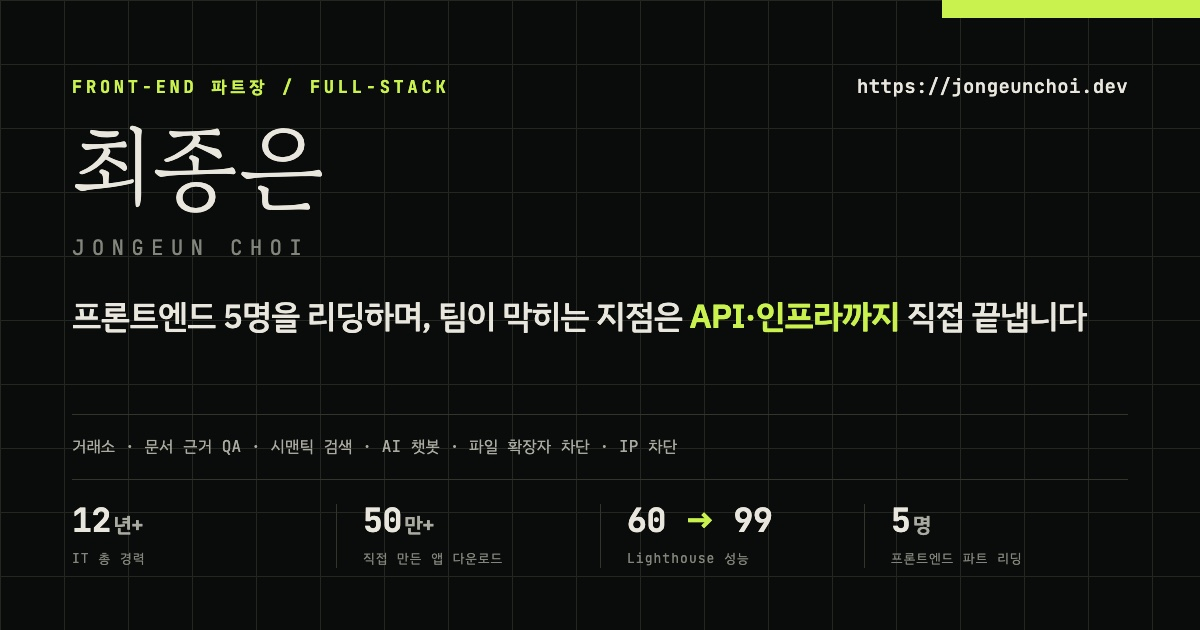
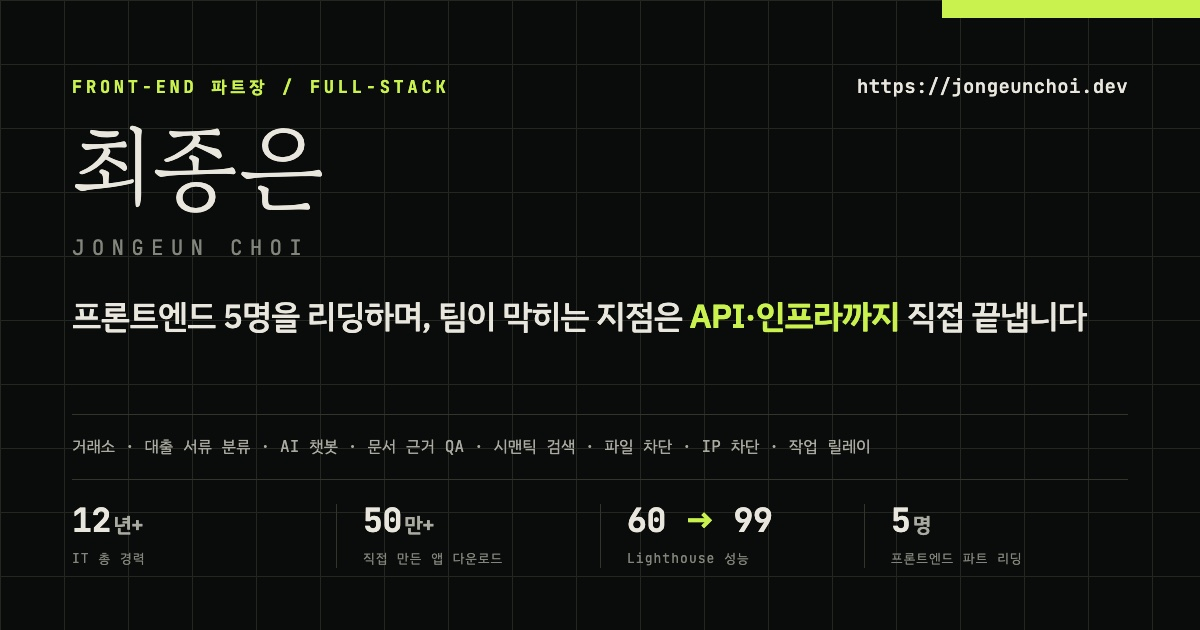
인덱스가 여덟 데모를 새 순서로 말하게 했다
대출 분류(07)와 작업 릴레이(08) 편입, 챗의 키 게이트 LLM 이 한꺼번에
쌓여 인덱스가 코드보다 뒤처져 있었다. 카드·문구·공유 카드를 한 번에
현행화한다.

## 카드 여덟 장, 순서의 의도

01 거래소 / 02 대출 분류 / 03 챗 / 04 문서QA / 05 시맨틱 검색 /
06 파일 차단 / 07 IP / 08 릴레이. 챗을 05 에서 03 으로 올렸다 -
AI 블록(02~05) 안에서 실 LLM 연동이 실재하는 카드(대출 분류의 폴백,
챗의 키 게이트)가 측정·목업 카드보다 먼저 읽히게. 문서QA-시맨틱 검색
쌍은 같은 앱의 두 표면이라 인접을 유지한다. 챗 카드는 스택 태그와
리드 문장에 키 게이트를 반영했다 - "목업" 제목과 실 LLM 이 한 카드에
있으면 모순으로 읽히므로 경계(키가 있을 때만)를 문장이 직접 말한다.

## 릴레이 카드와 링크 조립

08 카드의 판단 포인트는 재시도 자체가 아니라 부작용(중복 실행, 유령
이벤트)을 막은 방식이다. 링크는 DEMO_PORTS 에 guard. 서브도메인의
경로로 넣었다 - guard 앱 resolveScreenHref 와 같은 규칙이고, 새
서브도메인 없이 기존 인증서·nginx 로 동작한다(인프라 변경 0). 썸네일은
실행 중 화면 캡처다(격리 2건과 백오프 산식 타임라인이 보이는 컷).

## 개수 문구 전수 갱신

"일곱/여섯"이 남으면 페이지가 자기 말을 반박한다. 인트로 11곳(OG alt,
head 포트표 재작성, hero, 섹션 리드, 선택된 작업 08, 각 주석들)과
루트 README 7곳(표 수치는 실측 - guard 189/6종 24/33, chat 149,
docqa 55)을 갱신했다. 분류 문구는 재계산해 "서버측 일곱(fs 3 + be 4),
클라 전용 하나"다. 낡은 이중 주석(라이브 두 개 시절) 하나는 지웠다.

## OG 재생성

데모 스트립을 새 순서 8개로 다시 그렸다. 한 줄 수용을 위해 목록에서만
"파일 차단"으로 줄였다(카드 제목은 그대로) - 잘림과 줄바꿈이 없는 것을
눈으로 확인했다.

## 하지 않은 것

- 릴레이 전용 서브도메인 - 새 이름 0 원칙. guard. 경로로 충분하다.
- 품질 지표를 아홉 번째 카드로 승격 - "선택된 작업 08"과 개수 문구를
  모두 흔든다. 목록 밖 한 줄을 유지한다.

검증: 실브라우저 데스크톱·모바일(375px) 8카드 렌더와 가로 오버플로 0,
콘솔 오류 0. 모바일 우측 잘림처럼 보인 것은 대형 창 헤드리스 캡처의
아티팩트로, 배포본(HEAD) 렌더와 교차 확인했다.

Changed region(s): [[0.1233, 0.6937, 0.74, 0.7238]]

diff --git a/intro/index.html b/intro/index.html
@@ -23,7 +23,7 @@
 <meta property="og:image:width" content="1200">
 <meta property="og:image:height" content="630">
 <meta property="og:image:type" content="image/jpeg">
-<meta property="og:image:alt" content="최종은 포트폴리오 - 라이브 데모 여섯 개와 12년+ 경력 요약">
+<meta property="og:image:alt" content="최종은 포트폴리오 - 라이브 데모 여덟 개와 12년+ 경력 요약">
 <meta name="twitter:card" content="summary_large_image">
 <meta name="twitter:title" content="최종은 (JONGEUN CHOI) - 풀스택 개발자 포트폴리오">
 <meta name="twitter:description" content="검증 조율 구현을 모두 거친 개발 리더. IT 경력 12년+.">
@@ -37,14 +37,16 @@
   최종은 포트폴리오 인트로(랜딩) - 자체완결 정적 HTML. 빌드 도구 없이 그대로 서빙한다.
   외부 의존은 Google Fonts(CDN) 하나. 카운트업/등장 애니메이션은 바닐라 JS.
 
-  하단 Demos 섹션의 여섯 카드는 한 서버에 함께 배포된다. 도메인 없이 IP 로만 접속하는 구성이라
+  하단 Demos 섹션의 여덟 카드는 한 서버에 함께 배포된다. 도메인 없이 IP 로만 접속하는 구성이라
   서브도메인을 쓸 수 없고(SNI 없음), 앱들이 모두 /api/* 를 써 경로로도 못 나눠서 **포트로** 나눈다:
-    01 FRONTEND  거래소 목업        portfolio_exchange_next  :9445 /exchange/BTC
-    02 FRONTEND  AI 챗봇 목업        portfolio_react_next     :9443 /
-    03 FRONTEND  문서 근거 QA        portfolio_react_next     :9444 /
-    04 FRONTEND  시맨틱 검색         portfolio_react_next     :9444 /search
-    05 BACKEND   파일 확장자 차단     portfolio_jquery_spring  :8443 /
-    06 BACKEND   IP 차단             portfolio_jquery_spring  :8443 /ip.html
+    01 FRONTEND    거래소 목업        portfolio_exchange_next  :9445 /exchange/BTC
+    02 BACKEND·AI  대출 서류 분류     portfolio_python_fastapi :9446 /
+    03 FULL-STACK  AI 챗봇 목업       portfolio_react_next     :9443 /
+    04 FULL-STACK  문서 근거 QA       portfolio_react_next     :9444 /
+    05 FULL-STACK  시맨틱 검색        portfolio_react_next     :9444 /search
+    06 BACKEND     파일 확장자 차단    portfolio_jquery_spring  :8443 /
+    07 BACKEND     IP 차단            portfolio_jquery_spring  :8443 /ip.html
+    08 BACKEND     작업 릴레이         portfolio_jquery_spring  :8443 /relay.html
   인트로 자신은 같은 서버의 443(루트)에 있다. 그래서 링크에 IP 를 적어 두지 않고 "지금 페이지의
   호스트 + 데모별 포트" 로 조립한다(아래 DEMO_PORTS) - 서버 IP 가 바뀌어도 고칠 곳이 없다.
   로컬에서는 각 카드의 data-demo-url(개발 포트)을 쓰고, 링크로 승격하지 않는다(죽은 링크 방지).
@@ -427,7 +429,7 @@
   .index-head { display: flex; justify-content: space-between; align-items: baseline; font-family: var(--mono); font-size: 0.7rem; letter-spacing: 0.24em; text-transform: uppercase; color: var(--paper-faint); border-bottom: 1px solid var(--line); padding-bottom: 0.9rem; margin-bottom: 0.2rem; }
   ol.works { list-style: none; }
   /* 카드 목록 밖의 한 줄(품질 지표 링크). 카드가 아니라 각주라 크기를 한 단 낮추고 테두리를
-     주지 않는다 - 일곱 번째 카드처럼 보이면 "선택된 작업 06"과 어긋난다. */
+     주지 않는다 - 아홉 번째 카드처럼 보이면 "선택된 작업 08"과 어긋난다. */
   .works-extra { margin-top: 1.6rem; max-width: 62ch; font-size: 0.92rem; line-height: 1.7; color: var(--paper-dim); }
   .works-extra b { color: var(--paper); font-weight: 600; }
   .wx-lab { font-family: var(--mono); font-size: 0.66rem; letter-spacing: 0.22em; text-transform: uppercase; color: var(--paper-faint); margin-right: 0.55rem; }
@@ -621,7 +623,7 @@
              앞 문장을 새로 얹은 이유: 검증 초대만으로는 README 를 열지 않는 독자에게 이 문단이
              아무것도 주지 않는다. "다시 열리게 만들어 왔습니다" 로 쓰면 짧지만 15명 조직의
              재런칭을 1인칭으로 흡수한다 - 맡은 범위(프론트엔드)를 적는다. -->
-        <p class="sub reveal">느렸던 화면을 빠르게 만들고, 멈췄던 서비스를 다시 여는 재런칭에 프론트엔드를 맡았습니다. 아래 여섯 데모는 실제로 돌아가고, 각 README 에 <b>하지 않은 선택까지</b> 남겼습니다.</p>
+        <p class="sub reveal">느렸던 화면을 빠르게 만들고, 멈췄던 서비스를 다시 여는 재런칭에 프론트엔드를 맡았습니다. 아래 여덟 데모는 실제로 돌아가고, 각 README 에 <b>하지 않은 선택까지</b> 남겼습니다.</p>
 
         <dl class="stats reveal" aria-label="핵심 지표">
           <div class="stat">
@@ -712,7 +714,7 @@
           </div>
           <div class="skillcard">
             <h3>Backend</h3>
-            <div class="chips"><span>Java</span><span>Spring Boot</span><span>Thymeleaf (SSR)</span><span>RESTful API</span><span>WebSocket (STOMP)</span><span>SSE</span><span>Apache Tika</span></div>
+            <div class="chips"><span>Java</span><span>Spring Boot</span><span>Python</span><span>FastAPI</span><span>Thymeleaf (SSR)</span><span>RESTful API</span><span>WebSocket (STOMP)</span><span>SSE</span><span>Apache Tika</span></div>
           </div>
           <div class="skillcard">
             <h3>Database</h3>
@@ -724,7 +726,7 @@
           </div>
           <div class="skillcard">
             <h3>기타</h3>
-            <div class="chips"><span>TradingView</span><span>Web3j</span><span>Vertex AI</span><span>Claude Code CLI</span></div>
+            <div class="chips"><span>TradingView</span><span>Web3j</span><span>Vertex AI</span><span>Claude API</span><span>Claude Code CLI</span></div>
           </div>
         </div>
       </section>
@@ -736,10 +738,10 @@
         <!-- "프론트엔드 네 개와 백엔드 두 개" 라고 적혀 있었는데 카드 라벨은 Frontend 1 /
              Full-stack 3 / Backend 2 다(라벨을 올릴 때 이 줄을 안 고쳤다). 한 화면 안에서
              페이지가 자기 말을 반박하던 자리다. 개수 대신 범위로 적는다: 서버측 관심사가 있는
-             카드가 다섯(fs 3 + be 2), 클라이언트 전용이 하나(거래소)다. -->
-        <p class="sub reveal" style="max-width:52ch;color:var(--paper-dim);margin-bottom:2.5rem">직접 설계하고 구현한 코드 데모입니다. 여섯 개 모두 라이브로 열려 있고, 화면만이 아니라 API · 저장 · 정책까지 직접 만든 것이 다섯 개입니다.</p>
+             카드가 일곱(fs 3 + be 4), 클라이언트 전용이 하나(거래소)다. -->
+        <p class="sub reveal" style="max-width:52ch;color:var(--paper-dim);margin-bottom:2.5rem">직접 설계하고 구현한 코드 데모입니다. 여덟 개 모두 라이브로 열려 있고, 화면만이 아니라 API · 저장 · 정책까지 직접 만든 것이 일곱 개입니다.</p>
 
-        <div class="index-head reveal"><span>선택된 작업</span><span>06</span></div>
+        <div class="index-head reveal"><span>선택된 작업</span><span>08</span></div>
         <ol class="works">
           <li>
             <!-- 카드는 마크업상 링크가 아니다. 데모들은 인트로와 같은 호스트의 다른 포트에 살아서,
@@ -750,7 +752,7 @@
               <div class="wbody">
                 <span class="cat">Frontend</span>
                 <h3 class="wtitle">거래소 목업</h3>
-                <!-- 여섯 장 중 이 카드만 이해관계 절을 앞에 붙이지 않았다. 첫 문장이 이미
+                <!-- 여덟 장 중 이 카드만 이해관계 절을 앞에 붙이지 않았다. 첫 문장이 이미
                      "실무에서 한 일을 다시 만들었다" 라 그 역할을 하고 있다. 길이만 줄인다. -->
                 <p class="wdesc">실무에서 호가창을 10단&#8594;20단으로 늘리고 차트를 옮겼던 작업을 공개 가능한 형태로 다시 만들었습니다. Mock 스트림이 시세·분봉·호가를 함께 갱신하고, 스탑 주문은 새 엔진이 아니라 체결 상태기계의 트리거 상태로 넣었습니다. 거래 화면과 입출금·보유자산까지 세 화면입니다.</p>
                 <div class="wstack"><span>Next.js 16</span><span>React 19</span><span>TypeScript</span><span>lightweight-charts</span><span>zustand</span><span>실시간 Mock</span></div>
@@ -761,8 +763,43 @@
           </li>
 
           <li>
-            <div class="work pending reveal" data-track="fs" data-demo="docqa-qa" data-demo-url="http://localhost:3030/" aria-label="문서 근거 QA">
+            <div class="work pending reveal" data-track="be" data-demo="loandoc" data-demo-url="http://localhost:8000/" aria-label="대출 서류 분류">
               <span class="idx">02</span>
+              <div class="wbody">
+                <span class="cat">Backend · AI</span>
+                <h3 class="wtitle">대출 서류 분류 파이프라인</h3>
+                <!-- AI 를 "폴백" 으로 쓴 이유가 이 카드의 본문이다 - 전 페이지 LLM 이 아니라
+                     룰 우선 + 저신뢰만 위임. 근거가 페이지 단위로 남는다는 것이 판단 포인트. -->
+                <p class="wdesc">수십 장짜리 대출 서류 뭉치는 순서 없이 스캔되어 들어옵니다. 페이지마다 유형을 판별하고 흩어진 문서를 다시 묶는 파이프라인입니다. 표준 양식의 고정 문구를 룰로 먼저 확정하고 룰이 못 정한 페이지만 AI 에 맡겨, 모든 판정에 페이지 단위 근거가 남습니다. 동봉된 합성 샘플로 한 클릭이면 결과가 보입니다.</p>
+                <div class="wstack"><span>Python 3</span><span>FastAPI</span><span>pypdf</span><span>룰 + LLM 폴백 하이브리드</span><span>속성 기반 테스트</span><span>결정적 산출물</span></div>
+              </div>
+              <img class="wthumb" src="img/demo-07-loandoc.jpg" srcset="img/demo-07-loandoc-400.jpg 400w, img/demo-07-loandoc-800.jpg 800w, img/demo-07-loandoc.jpg 1200w" sizes="(min-width: 1024px) 250px, (min-width: 641px) 420px, 80vw" alt="" width="1200" height="750" loading="lazy" decoding="async">
+              <div class="wstatus"><span class="soon">로컬</span></div>
+            </div>
+          </li>
+
+          <li>
+            <!-- 챗을 문서QA 쌍 앞에 둔다 - AI 블록(02~05) 안에서 실 LLM 연동이 실재하는
+                 카드(대출 분류의 폴백, 챗의 키 게이트)가 측정·목업 카드보다 먼저 읽히게. -->
+            <div class="work pending reveal" data-track="fs" data-demo="chat" data-demo-url="http://localhost:3000/" aria-label="AI 챗봇 목업">
+              <span class="idx">03</span>
+              <div class="wbody">
+                <span class="cat">Full-stack</span>
+                <h3 class="wtitle">AI 챗봇 목업</h3>
+                <!-- "목업" 이라는 제목과 "실제 LLM" 이 한 카드에 있으면 모순으로 읽힌다 -
+                     키 게이트(있으면 LLM, 없으면 결정적 목업)라는 사실 자체가 판단 포인트라
+                     리드 문장이 그 경계를 직접 말하게 한다. -->
+                <p class="wdesc">실시간 UI 는 데모에서만 잘 돌고 실제 네트워크에서 깨집니다. 전송 계층만 바꿔 Mock · 실제 SSE · 실제 LLM(서버에 키가 있을 때만) 을 오가도록 경계를 그었고, 마크다운은 걸러내는 대신 파싱하지 않아 안전 경계를 좁혔습니다. 연속 요청은 토큰 버킷으로 막고 남은 시간을 화면에 돌려줍니다.</p>
+                <div class="wstack"><span>Next.js 16</span><span>React 19</span><span>TypeScript</span><span>SSE</span><span>Claude API 키 게이트</span><span>대화 검색</span><span>접근성</span></div>
+              </div>
+              <img class="wthumb" src="img/demo-04-chat.jpg" srcset="img/demo-04-chat-400.jpg 400w, img/demo-04-chat-800.jpg 800w, img/demo-04-chat.jpg 1200w" sizes="(min-width: 1024px) 250px, (min-width: 641px) 420px, 80vw" alt="" width="1200" height="750" loading="lazy" decoding="async">
+              <div class="wstatus"><span class="soon">로컬</span></div>
+            </div>
+          </li>
+
+          <li>
+            <div class="work pending reveal" data-track="fs" data-demo="docqa-qa" data-demo-url="http://localhost:3030/" aria-label="문서 근거 QA">
+              <span class="idx">04</span>
               <div class="wbody">
                 <span class="cat">Full-stack</span>
                 <h3 class="wtitle">문서 근거 QA (검색 + 추출형 MRC)</h3>
@@ -777,7 +814,7 @@
           <li>
             <!-- docqa 앱의 두 번째 표면(같은 앱 /search 라우트)이라 바로 위 카드에 붙여 둔다. -->
             <div class="work pending reveal" data-track="fs" data-demo="docqa-search" data-demo-url="http://localhost:3030/search" aria-label="시맨틱 검색">
-              <span class="idx">03</span>
+              <span class="idx">05</span>
               <div class="wbody">
                 <span class="cat">Full-stack</span>
                 <h3 class="wtitle">시맨틱 검색</h3>
@@ -790,22 +827,8 @@
           </li>
 
           <li>
-            <div class="work pending reveal" data-track="fs" data-demo="chat" data-demo-url="http://localhost:3000/" aria-label="AI 챗봇 목업">
-              <span class="idx">04</span>
-              <div class="wbody">
-                <span class="cat">Full-stack</span>
-                <h3 class="wtitle">AI 챗봇 목업</h3>
-                <p class="wdesc">실시간 UI 는 데모에서만 잘 돌고 실제 네트워크에서 깨집니다. 전송 계층만 바꿔 Mock 과 실제 SSE 를 오가도록 경계를 그었고, 마크다운은 걸러내는 대신 파싱하지 않아 안전 경계를 좁혔습니다. 연속 요청은 토큰 버킷으로 막고 남은 시간을 화면에 돌려줍니다.</p>
-                <div class="wstack"><span>Next.js 16</span><span>React 19</span><span>TypeScript</span><span>SSE</span><span>대화 검색</span><span>접근성</span></div>
-              </div>
-              <img class="wthumb" src="img/demo-04-chat.jpg" srcset="img/demo-04-chat-400.jpg 400w, img/demo-04-chat-800.jpg 800w, img/demo-04-chat.jpg 1200w" sizes="(min-width: 1024px) 250px, (min-width: 641px) 420px, 80vw" alt="" width="1200" height="750" loading="lazy" decoding="async">
-              <div class="wstatus"><span class="soon">로컬</span></div>
-            </div>
-          </li>
-
-          <li>
             <div class="work pending reveal" data-track="be" data-demo="files" data-demo-url="http://localhost:8080/" aria-label="파일 확장자 차단">
-              <span class="idx">05</span>
+              <span class="idx">06</span>
               <div class="wbody">
                 <span class="cat">Backend</span>
                 <h3 class="wtitle">파일 확장자 차단</h3>
@@ -819,9 +842,9 @@
           </li>
 
           <li>
-            <!-- 백엔드 두 카드는 같은 Spring 앱의 두 화면이다(포트 하나, 경로만 다르다). -->
+            <!-- 파일차단/IP차단/릴레이 세 카드는 같은 Spring 앱의 세 화면이다(포트 하나, 경로만 다르다). -->
             <div class="work pending reveal" data-track="be" data-demo="ip" data-demo-url="http://localhost:8081/ip.html" aria-label="IP 접근 제어">
-              <span class="idx">06</span>
+              <span class="idx">07</span>
               <div class="wbody">
                 <span class="cat">Backend</span>
                 <h3 class="wtitle">IP 차단</h3>
@@ -838,11 +861,27 @@
             </div>
           </li>
 
+          <li>
+            <div class="work pending reveal" data-track="be" data-demo="relay" data-demo-url="http://localhost:8080/relay.html" aria-label="작업 릴레이">
+              <span class="idx">08</span>
+              <div class="wbody">
+                <span class="cat">Backend</span>
+                <h3 class="wtitle">작업 릴레이</h3>
+                <!-- 이 카드의 판단 포인트는 재시도 자체가 아니라 재시도의 부작용(중복 실행,
+                     유령 이벤트)을 어떻게 막았는가다. 결정적 재생은 §0(결정적 동작)의 백엔드판. -->
+                <p class="wdesc">재시도는 붙이기 쉽지만, 같은 작업이 두 번 실행되는 순간 장애가 됩니다. 중복 예약은 멱등키로 막고, 워커 경쟁은 SKIP LOCKED 리스로 가르고, 저장은 롤백됐는데 완료 이벤트만 나가는 유령은 아웃박스 발행으로 없앴습니다. 실패가 시드 기반이라 같은 실패 타임라인을 몇 번이고 재현할 수 있습니다.</p>
+                <div class="wstack"><span>Spring Boot 4</span><span>Java 21</span><span>MySQL</span><span>jQuery 4</span><span>SKIP LOCKED 리스</span><span>아웃박스 패턴</span><span>결정적 재생</span></div>
+              </div>
+              <img class="wthumb" src="img/demo-08-relay.jpg" srcset="img/demo-08-relay-400.jpg 400w, img/demo-08-relay-800.jpg 800w, img/demo-08-relay.jpg 1200w" sizes="(min-width: 1024px) 250px, (min-width: 641px) 420px, 80vw" alt="" width="1200" height="750" loading="lazy" decoding="async">
+              <div class="wstatus"><span class="soon">로컬</span></div>
+            </div>
+          </li>
+
         </ol>
 
-        <!-- 카드 여섯 장 밖에 한 줄을 둔다. 문서QA 의 품질 지표 화면은 이 포트폴리오에서 판단
+        <!-- 카드 여덟 장 밖에 한 줄을 둔다. 문서QA 의 품질 지표 화면은 이 포트폴리오에서 판단
              근거가 가장 많이 적힌 곳인데(자기 오답 건수까지 공개한다) 앱 안쪽 탭이라 카드에서
-             들어온 사람이 못 보고 나간다. 일곱 번째 카드로 만들면 "선택된 작업 06"과 데모 개수
+             들어온 사람이 못 보고 나간다. 아홉 번째 카드로 만들면 "선택된 작업 08"과 데모 개수
              문구를 모두 흔들어서, 링크 한 줄로 둔다. -->
         <p class="works-extra reveal">
           <span class="wx-lab">덧붙여</span>
@@ -993,7 +1032,7 @@
         <h2 class="sec reveal" id="contact-h">연락처</h2>
         <!-- "문의는 이메일로 주세요" 는 무엇을 찾는 사람인지 알려주지 않는다. 응답 시간 약속은
              넣지 않았다 - 첫 접점에서 지키지 못하는 약속이 가장 비싸다. -->
-        <p class="sub reveal" style="max-width:46ch;color:var(--paper-dim)">프론트엔드와 서버를 함께 볼 사람이 필요한 자리라면 언제든 연락 주세요. 이 페이지와 데모 여섯 개의 코드가 GitHub 에 열려 있고, 설계 판단과 하지 않은 선택의 이유는 각 README 에 있습니다.</p>
+        <p class="sub reveal" style="max-width:46ch;color:var(--paper-dim)">프론트엔드와 서버를 함께 볼 사람이 필요한 자리라면 언제든 연락 주세요. 이 페이지와 데모 여덟 개의 코드가 GitHub 에 열려 있고, 설계 판단과 하지 않은 선택의 이유는 각 README 에 있습니다.</p>
         <div class="contact-wrap two reveal">
           <a class="cc" href="mailto:vkdnj20088@gmail.com"><span class="k">Email</span><span class="v">vkdnj20088@gmail.com</span></a>
           <a class="cc" href="https://github.com/vkdnj20088/portfolio" rel="noopener noreferrer"><span class="k">GitHub</span><span class="v">github.com/vkdnj20088/portfolio</span></a>
@@ -1018,9 +1057,6 @@
       // getComputedStyle 이 스타일 재계산을 강제해 스크롤 중 스래시가 난다).
       var STAGGER = parseInt(getComputedStyle(document.documentElement).getPropertyValue('--stagger'), 10) || 60;
 
-      // 데모 링크 단일 소스. 라이브 두 개(chat/files)는 배포 IP 라 <a> 카드의 href 로 세팅한다(no-JS
-      // 폴백도 정적 href 로 보유). 로컬 두 개(exchange/ip)는 미배포라 링크가 아닌 상태 카드이며 실행
-      // URL 은 카드의 data-demo-url 에 보존한다 - 배포되면 그 카드를 <a href> 로 되살리고 여기서 함께 세팅.
       /*
        * 데모 링크. 인트로와 데모들은 "같은 서버"에 산다(도메인 없이 IP 라 서브도메인을 못 쓰고,
        * 앱마다 /api/* 가 겹쳐 경로로도 못 나눠서 포트로 나눈다). 그래서 링크를 IP 로 적어 두지 않고
@@ -1035,11 +1071,15 @@
         chat:           { port: 9443, sub: 'chat',     path: '/' },
         'docqa-qa':     { port: 9444, sub: 'docqa',    path: '/' },
         'docqa-search': { port: 9444, sub: 'docqa',    path: '/search' },
-        // 백엔드 두 화면은 한 Spring 앱이지만 서브도메인은 따로 준다(파일차단/IP차단이 각각 데모다).
-        // IP 배포에는 서브도메인이 없어 나눌 방법이 포트+경로뿐이다 - 그래서 IP 차단만 경로가
-        // 다르다(subPath 는 도메인일 때의 경로 오버라이드. 없으면 path 를 그대로 쓴다).
+        // 백엔드 세 화면은 한 Spring 앱이다. 파일차단/IP차단은 서브도메인을 따로 주고(각각 데모다),
+        // 릴레이는 새 서브도메인 없이 원 주소(guard.)의 경로로 간다 - guard 앱 config.ts 의
+        // resolveScreenHref 와 같은 규칙이다(규칙을 바꾸면 두 벌을 함께 고칠 것).
+        // IP 배포에는 서브도메인이 없어 나눌 방법이 포트+경로뿐이다 - 그래서 경로가 다른 화면만
+        // subPath(도메인일 때의 경로 오버라이드)를 쓴다. 없으면 path 를 그대로 쓴다.
         files:          { port: 8443, sub: 'file',     path: '/' },
         ip:             { port: 8443, sub: 'ip',       path: '/ip.html', subPath: '/' },
+        relay:          { port: 8443, sub: 'guard',    path: '/relay.html' },
+        loandoc:        { port: 9446, sub: 'loandoc',  path: '/' },
         // 카드가 아닌 링크 하나(품질 지표)도 같은 표를 쓴다. 문서QA 앱의 세 번째 화면이라
         // 포트는 docqa 와 같고 경로만 다르다.
         'docqa-eval':   { port: 9444, sub: 'docqa',    path: '/eval' }
@@ -1108,11 +1148,11 @@
 
       /*
        * 데모에서 돌아온 사람 표시. 복귀 링크가 `?from=<키>#demos` 로 보내오면 그 카드에
-       * "방금 본 데모" 를 단다 - 자기가 무엇을 봤는지는 알지만, 여섯 개 중 무엇이 남았는지는
+       * "방금 본 데모" 를 단다 - 자기가 무엇을 봤는지는 알지만, 여덟 개 중 무엇이 남았는지는
        * 목록을 다시 훑어야 알 수 있었다.
        *
-       * referrer 가 아니라 쿼리인 이유: 여섯 표면 모두 `Referrer-Policy: no-referrer` 라
-       * document.referrer 가 비어 있다. 표식 하나 때문에 보안 헤더를 풀 이유가 없다.
+       * referrer 가 아니라 쿼리인 이유: 복귀 링크를 보내는 표면 모두 `Referrer-Policy:
+       * no-referrer` 라 document.referrer 가 비어 있다. 표식 하나 때문에 보안 헤더를 풀 이유가 없다.
        *
        * 키는 카드의 data-demo 와 같은 값이라 데모 쪽에는 문자열 하나만 있으면 된다(포트도
        * 서브도메인도 넘어가지 않는다 - DEMO_PORTS 는 이 파일에 한 벌로 남는다).

diff --git a/tools/og-card/og-card.html b/tools/og-card/og-card.html
@@ -192,7 +192,9 @@
     <p class="headline">프론트엔드 5명을 리딩하며, 팀이 막히는 지점은 <b>API·인프라까지</b> 직접 끝냅니다</p>
 
     <div class="rule rule--push"></div>
-    <p class="demos">거래소 · 문서 근거 QA · 시맨틱 검색 · AI 챗봇 · 파일 확장자 차단 · IP 차단</p>
+    <!-- 인트로 카드와 같은 순서(01~08). 여덟 개가 한 줄에 들어가도록 목록에서만 "확장자" 를
+         줄인다(파일 차단) - 화면 카드 제목은 그대로다. -->
+    <p class="demos">거래소 · 대출 서류 분류 · AI 챗봇 · 문서 근거 QA · 시맨틱 검색 · 파일 차단 · IP 차단 · 작업 릴레이</p>
     <div class="rule"></div>
 
     <div class="stats">
